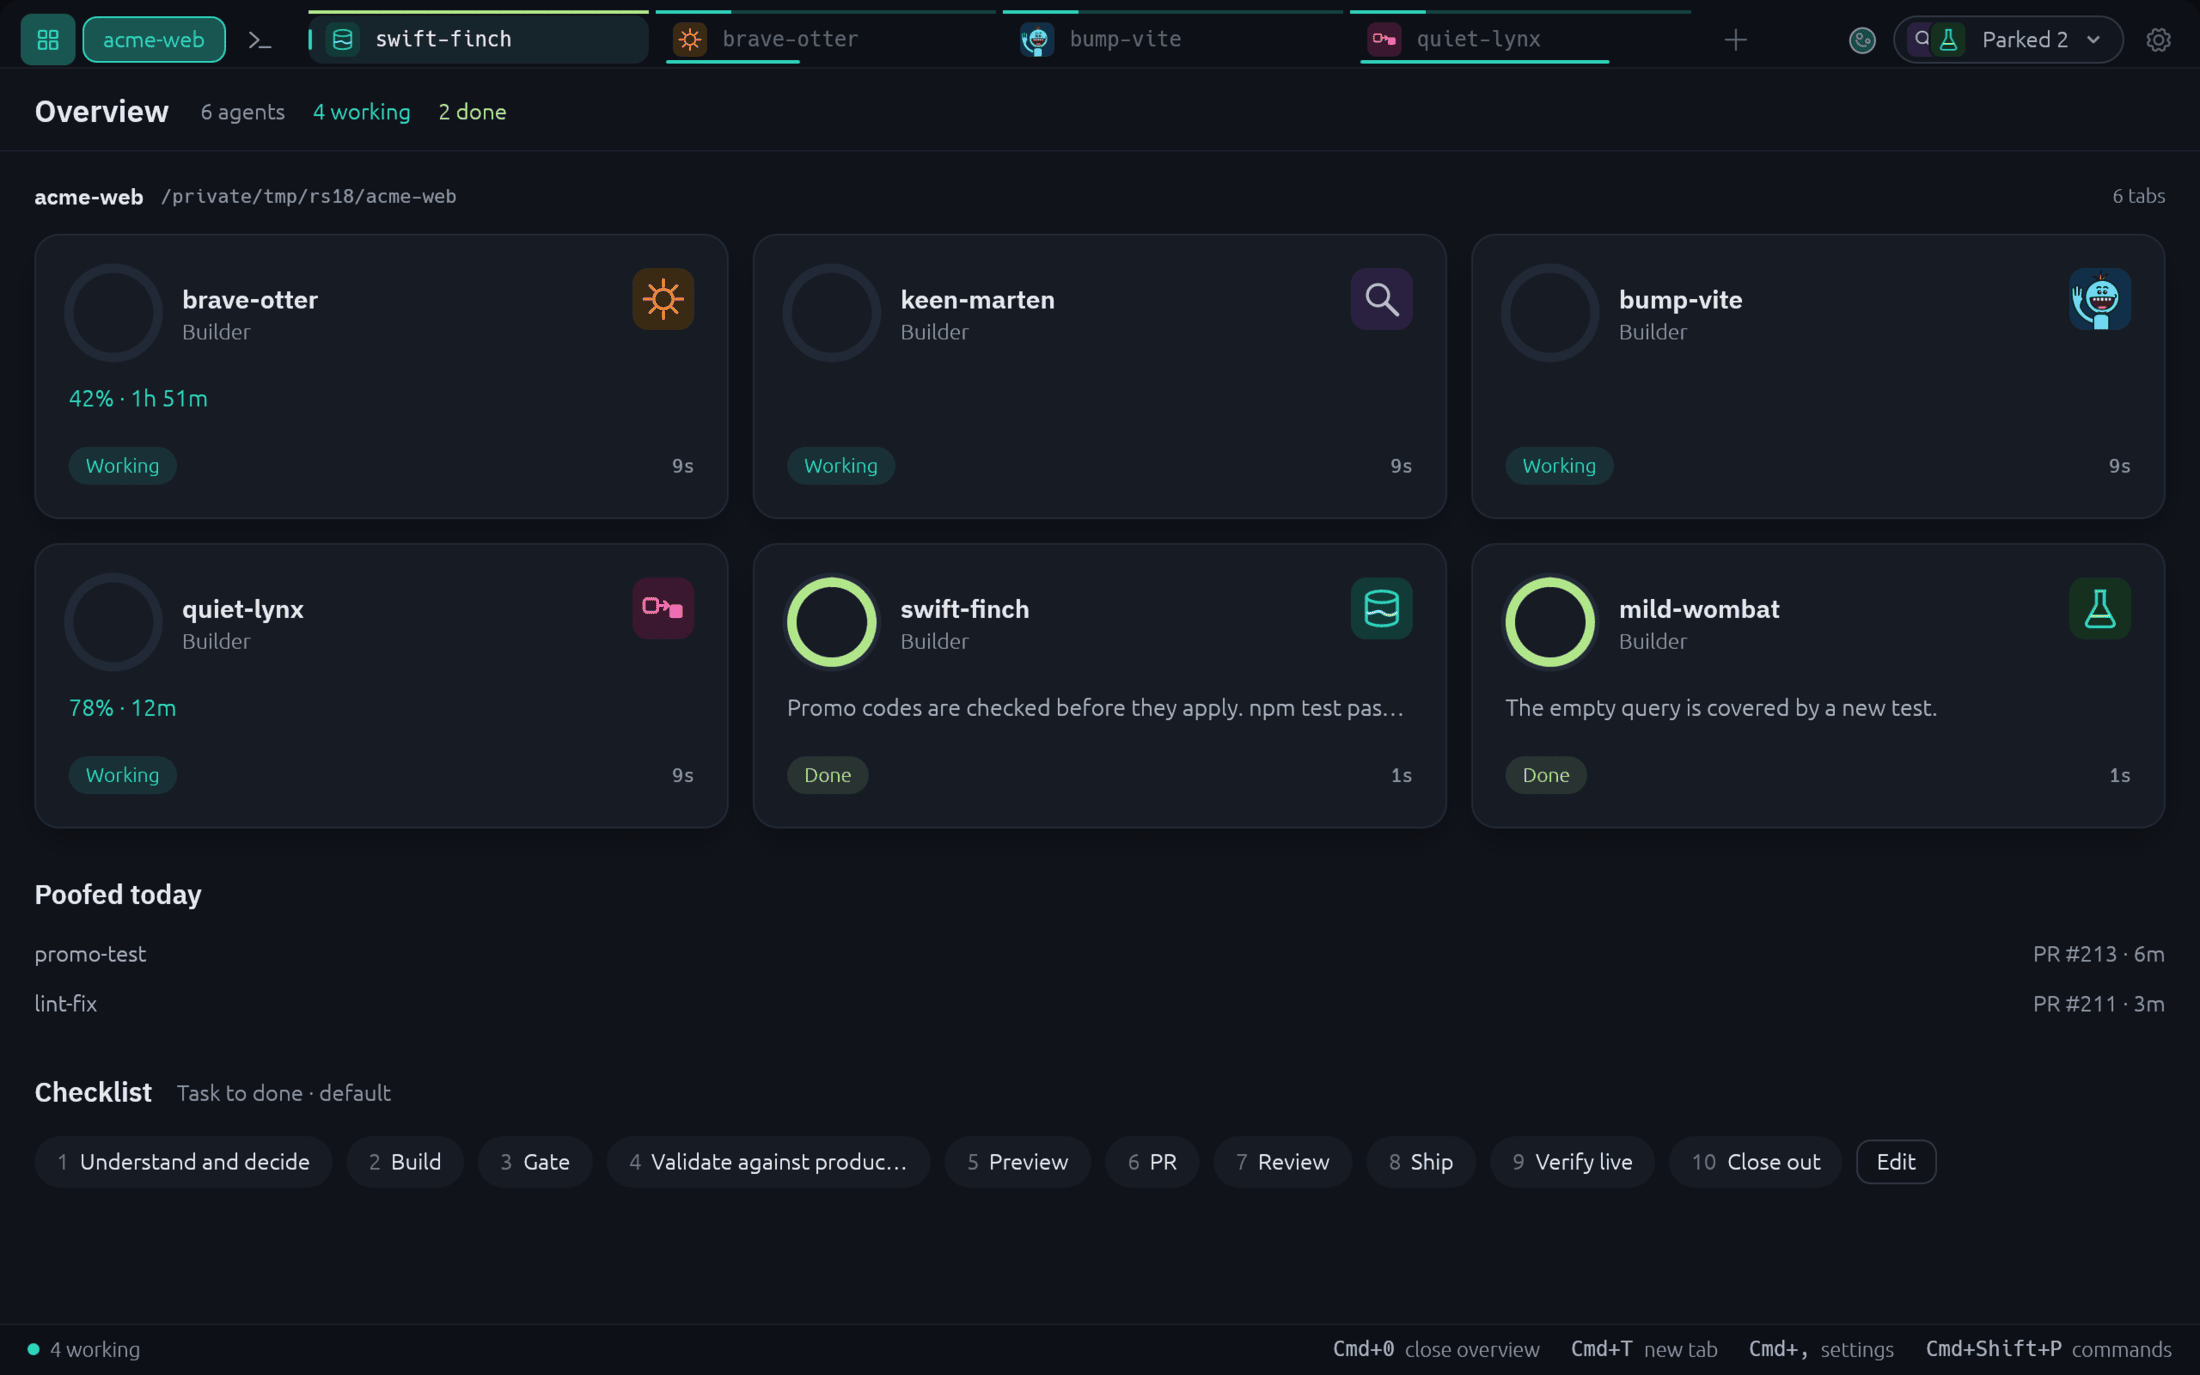
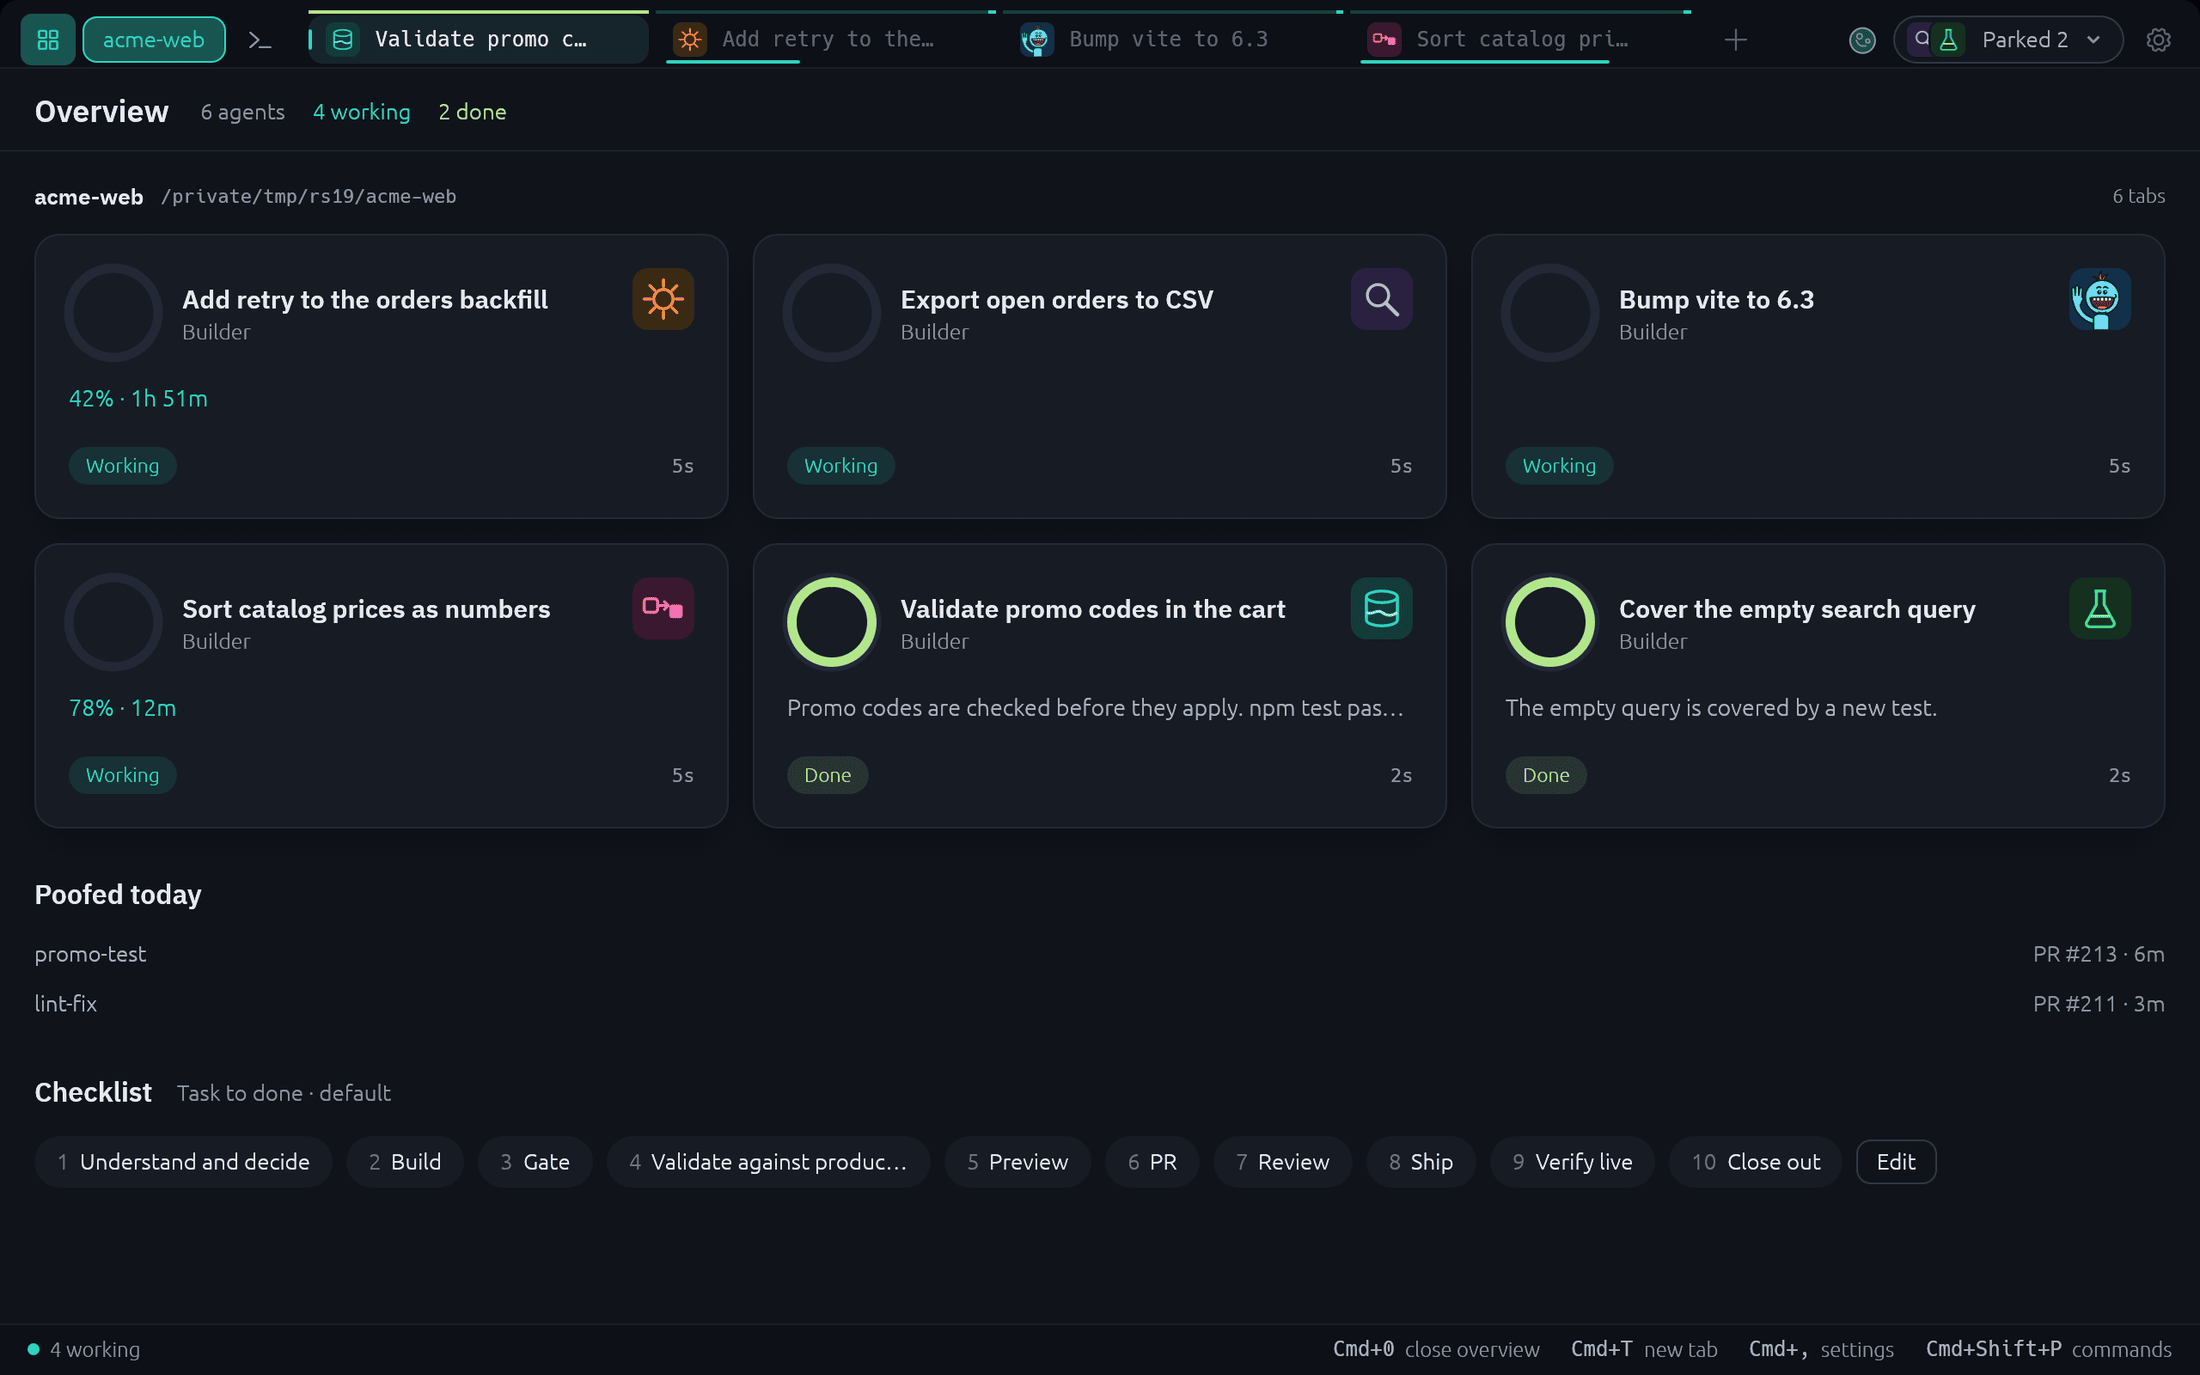
chore: v0.1.19
Ships #108 (tab titles from the work, avatars), #109 (YOLO as a new tab
default), #110 (take-over grouping), #111 (toolchain detection) and #113
(Running elsewhere hides moved sessions). Retook all six site shots, since
tabs now read as work titles, from a throwaway acme-web repo and home with
titled stand-in transcripts, PSNR 44.1 to 46.8 dB. The New pill names only
merged features.

diff --git a/site/index.html b/site/index.html
@@ -47,7 +47,7 @@
 
 <nav><div class="wrap">
   <a class="brand" href="#top"><img src="icon.svg" alt="" width="30" height="30">tidewatch</a>
-  <span class="badge">v0.1.18</span>
+  <span class="badge">v0.1.19</span>
   <div class="navlinks">
     <a href="#features">Features</a>
     <a href="#install">Install</a>
@@ -57,13 +57,13 @@
 
 <header class="hero" id="top"><div class="wrap">
   <img class="mascot" src="mascot/mascot-hero-animated.svg" width="400" height="440" alt="Tidewatch's mascot, a shoggoth in a smiley mask">
-  <a class="pill" href="https://github.com/Hobo-Ware/tidewatch/releases/latest"><b>New</b> v0.1.18: keep-awake while agents work, an Amphetamine button, a terminal font picker and a new tab strip.</a>
+  <a class="pill" href="https://github.com/Hobo-Ware/tidewatch/releases/latest"><b>New</b> v0.1.19: tabs named by their work, YOLO as a new tab default, take-over that groups worktrees by repo, and bun or deno detection.</a>
   <h1>AI agents side by side,<br><span class="teal">one worktree each.</span></h1>
   <p class="lede">Tidewatch is a desktop app for macOS and Linux that runs AI coding agents in one window per git repo. Every tab is its own git worktree, a separate checkout on its own branch, so several agents can work on the same repo without touching each other's files. You watch them, read what they did, comment on their diffs and decide what ships.</p>
   <div class="install"><span class="p">$</span><span class="txt">brew install hobo-ware/tap/tidewatch</span><button class="copy" type="button" data-copy="brew install hobo-ware/tap/tidewatch">Copy</button></div>
   <div class="ctas"><a href="#install">Install</a><a href="https://github.com/Hobo-Ware/tidewatch">Source on GitHub</a></div>
   <div class="window">
-    <img src="shot-hero.png" width="2200" height="1375" alt="Tidewatch with an agent's finished answer in the Reader on the left, and on the right the history card of its branch, three commits ahead of main: an uncommitted changes row and one commit opened with its changed files. Along the top, the Overview button, the repo chip and the main tab as an icon, then agent tabs with avatars (one of them a Meeseeks), a progress bar on the tab with a running job and a Parked pill holding three more tabs, and a status bar along the bottom">
+    <img src="shot-hero.png" width="2200" height="1375" alt="Tidewatch with an agent's finished answer in the Reader on the left, and on the right the history card of its branch, three commits ahead of main: an uncommitted changes row and one commit opened with its changed files. Along the top, the Overview button, the repo chip and the main tab as an icon, then agent tabs named by their work (Validate promo codes, Add retry to the orders backfill) with avatars (one of them a Meeseeks), a progress bar on the tab with a running job and a Parked pill holding two more tabs, and a status bar along the bottom">
   </div>
 </div></header>
 
@@ -116,7 +116,7 @@
       <p>Overview shows each tab and what it is doing, with the tabs that need you on top. A badge on the button counts them, so you can look away until one does.</p>
       <ul><li>Working, needs you, done or failed</li><li>The agent's Done, Needs you and Next lines on the row</li><li>Desktop notifications when an agent needs you</li></ul>
     </div>
-    <div class="shot"><img src="shot-overview.png" width="2200" height="1375" loading="lazy" alt="Tidewatch's Overview as cards: four agents that are working (one a Meeseeks, two with a job's percent and time left) and two that are done, then a Poofed today list of Meeseeks that finished, with the avatar tabs, the Parked pill and the status bar around it"></div>
+    <div class="shot"><img src="shot-overview.png" width="2200" height="1375" loading="lazy" alt="Tidewatch's Overview as cards, each titled by its work: four agents that are working (one a Meeseeks, two with a job's percent and time left) and two that are done, then a Poofed today list of Meeseeks that finished, with the avatar tabs, the Parked pill and the status bar around it"></div>
   </div>
 
   <div class="row flip">

diff --git a/LEDGER.md b/LEDGER.md
@@ -4,13 +4,14 @@ A running log of what got done, newest first. The plan lives in [PLAN.md](PLAN.m
 
 ## Status
 
-- **Current milestone:** v0.1.18: the new tab strip (Overview first, main as an icon, Linux title bar), the Amphetamine keep-awake button with Lovecraftian toasts, automatic keep-awake while agents work, a terminal font picker, and fixes for Tab, scroll, screenshot paste and stdusk tab grouping.
-- **Done:** Phases 0 to 10; v0.1.0 to v0.1.18 released (Homebrew cask, Linux tarball and AppImage); the K mark identity; the showcase page.
+- **Current milestone:** v0.1.19: tabs named by their work, agents that draw avatars again, YOLO as a new tab default with the reason a level is refused, take-over that groups worktrees under their repo, test-command detection for bun and deno, and a Running elsewhere card that hides sessions already moved.
+- **Done:** Phases 0 to 10; v0.1.0 to v0.1.19 released (Homebrew cask, Linux tarball and AppImage); the K mark identity; the showcase page.
 - **Also:** six habit workflows are built in, and Build workflow from this session (palette; the agent proposes a workflow that opens as an unsaved draft), 2026-10-16. Restart to update keeps every shell and agent running (live handoff, 2026-10-15). The receiving side of stdusk's "Move tabs to Tidewatch" is built (#49).
 - **Next:** the diff widgets go teal (the graph already does on the side layout); commit messages that truncate early in the narrow tree; the divider position saved between runs; the site hero screenshot; the owner's live checks; Linux desktop runs.
 
 ## 2026-10-24
 
+- **v0.1.19.** Ships #108 (tab titles from the work, avatars with MCP `alwaysLoad`), #109 (YOLO pickable as the new tab default, with the reason a level is refused), #110 (take-over groups worktrees of one repo, saved groups merged on launch), #111 (toolchain detection, bun or deno by lockfile) and #113 (Running elsewhere hides moved sessions, ended ones under a collapsed Recent sessions bar). #112 (use-terminal-view) is not in this release. Main at 64e60a9 was green before the bump: `cargo fmt --check`, `cargo clippy --workspace --all-targets -- -D warnings` and `cargo test --workspace` (3,089 passing). Every site shot shows agent tab labels, which are now work titles, so all six were retaken from a throwaway acme-web repo, home and stand-in `claude` (2200x1375, `TIDEWATCH_FAKE_AMPHETAMINE=off`, background runs, neutral prompt) with titled stand-in transcripts (`ai-title` records such as "Add retry to the orders backfill"): hero 186 kB to 227 kB (PSNR 44.1 dB), overview 94 to 118 (46.6), needs 132 to 160 (45.1), newtab 142 to 169 (46.3), palette 300 to 296 (46.7), workflows 133 to 160 (46.8). The strip shows four agent tabs and a Parked pill of two, so titles fit as far as the tab width allows. The New pill names only these merged features.
 - **Running elsewhere stops listing sessions that are not running (branch `elsewhere-recent`).** The owner: "why do we see these here? the non running ones?" (five `claude · ended 33 min ago` rows). Root cause: the card also listed ended sessions, up to three per folder, as "recent" rows; a session was left out only when its id was in the held set (live registry ids, running processes, the `launched.session_id` of open tabs). A tab that is closed, or whose transcript is another file than the id it launched with, is not held, so what the owner moved in earlier came back as a "not running" row. Now: a session is left out when its id or its transcript file (the open tab's Reader file, symlinks resolved) is held, and Tidewatch remembers every id and transcript an open tab held for the rest of the run, so a closed tab's session stays out too; ended sessions are no longer rows of the card but sit under a collapsed "Recent sessions (N)" bar, the newest one per folder across the CLIs; a card with nothing running is not drawn; a row is named by the session's transcript title (custom, generated, summary, as for tab titles) and says when it ended. Numbers: 3,089 tests passing across the workspace (new: held by id, by transcript, through a symlink, one per folder, newest across CLIs, titles, running apart from ended, no card with only ended, the bar's height and clicks, a scan with held ids and files). Checked with `TIDEWATCH_SCREENSHOT` and `TIDEWATCH_DEV_RECENT=open` in a throwaway home with a `sleep` stand-in and hand-written transcripts: `docs/elsewhere-recent.png`. **Not verified:** that `claude --resume <id>` keeps the id in an interactive tab on 2.1.310 (`--help` says it reuses it unless `--fork-session`; a throwaway home has no login), a real session closed in a tab, Linux. A title is cached per transcript path by (size, modification time), so the 5 s scan reads a transcript again only after it changed (files over 64 MB are never read); a changed transcript is still read in full, because a title record can be anywhere in it.
 - **v0.1.18.** Ships #66 (terminal font picker), #69 (Linux tab strip as the title bar), #99 (keep awake while agents work), #100 (stdusk move grouping), #101 (Tab in the terminal), #102 (screenshot paste), #103 (terminal scroll), #104 (Overview first in the strip, main as an icon) #105 (Amphetamine button) and #107 (Amphetamine toasts in a Lovecraft voice). Every site shot shows the strip, so all six were retaken from a throwaway acme-web repo, home and stand-in `claude` (2200x1375, `TIDEWATCH_FAKE_AMPHETAMINE=off`, no real activation): hero 185 kB to 186 kB (PSNR 44.6 dB), overview 91 to 94 (46.9), needs 132 to 132 (46.1), newtab 170 to 142 (46.8), palette 301 to 300 (47.3), workflows 129 to 133 (47.3). The New pill names only these merged features.
 - **Agent tabs are named by their work, and agents draw avatars again (branch `tab-titles`).** The owner: "the tabs show agent names?! I need to know what work is being done" and "no avatars are being generated?". Titles: `tab_title::pick` takes the session title Claude wrote to its transcript (`custom-title` from /rename, then `ai-title`, then `summary`), else Claude's terminal title, the ledger goal, the first message, and only last the worktree name, which moves to the tooltip; the strip, Overview cards, Parked list, palette and notifications all use it, and a moved or resumed session has it from its first read because the Reader tails the transcript from the top. Avatars, root cause: Claude Code 2.1.310 hides every MCP tool behind its ToolSearch tool unless the server sets `alwaysLoad` (checked on the real binary: the request's tool list had none of the Tidewatch tools, and all six with `alwaysLoad`), so `set_avatar` was never in front of the model; the Claude MCP config now sets it. Checked with a stand-in `claude` that resumed four sessions from a seeded session and called `tools/list` and `set_avatar` through the real listener (alwaysLoad true, tool listed, avatar landed on its tab). Not checked: a signed-in model actually calling the tool (no credentials in a throwaway home), a real generated `ai-title` line (shape taken from the 2.1.310 binary; `custom-title` was captured from a real `/rename`), Codex, Gemini and Copilot titles (their transcripts hold none), a `latest` session id (no transcript, so the label falls to the terminal title or the name).
